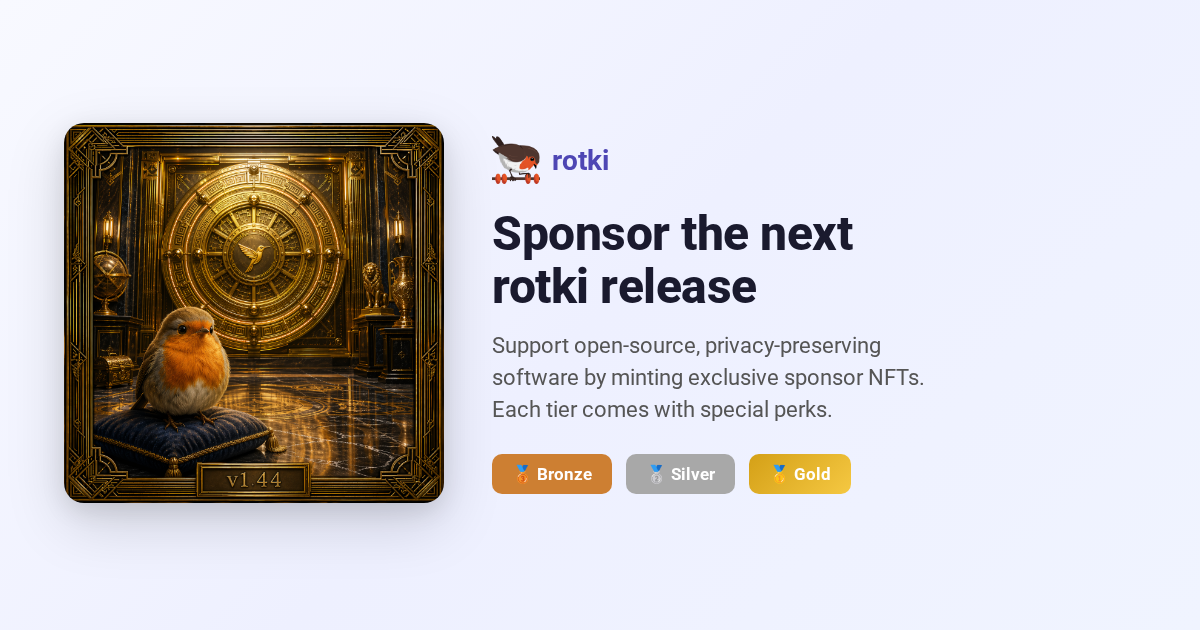
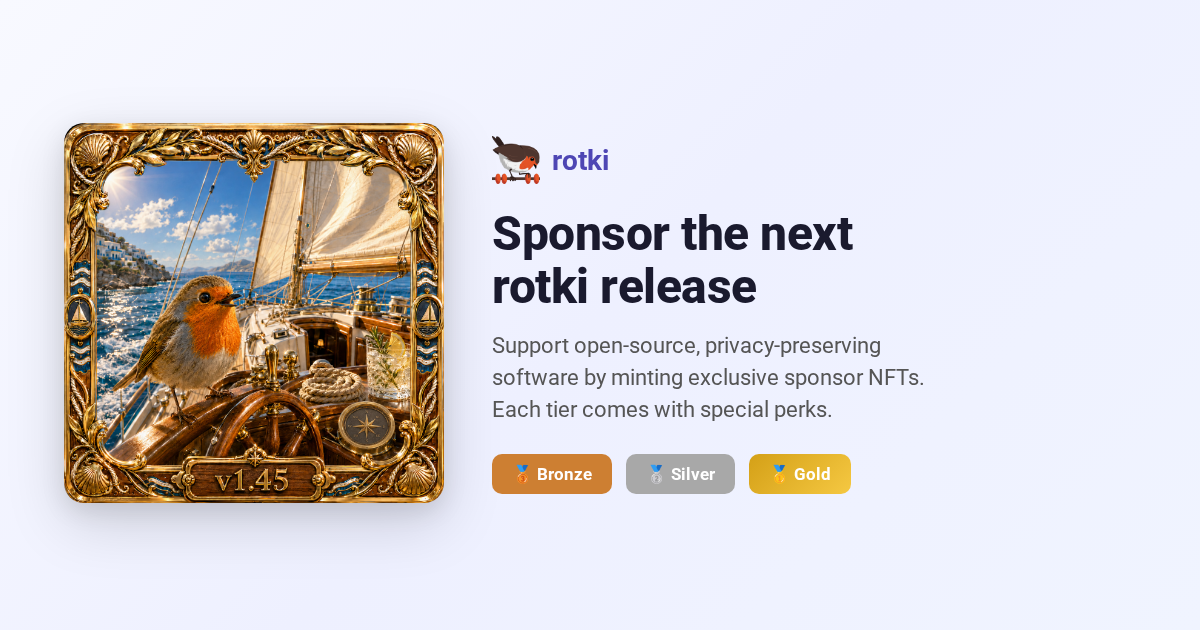
chore(sponsor): regenerate mint OG image for the v1.45 art
Also lets the generator use a system Chromium via --executable-path or
CHROMIUM_PATH, instead of requiring the Playwright download.

Changed region(s): [[0.0308, 0.181, 0.37, 0.8143]]

diff --git a/packages/website/scripts/generate-og-mint.ts b/packages/website/scripts/generate-og-mint.ts
@@ -4,24 +4,29 @@
  * Usage:
  *   pnpm og:mint                          # uses https://rotki.com
  *   pnpm og:mint -- --base-url http://localhost:3000
+ *   pnpm og:mint -- --executable-path /usr/bin/chromium
  *
  * Requirements:
- *   - Playwright browsers installed (`pnpm exec playwright install chromium`)
+ *   - A Chromium: either the Playwright one (`pnpm exec playwright install chromium`)
+ *     or a system install pointed at via --executable-path / CHROMIUM_PATH.
  */
 
 import { Buffer } from 'node:buffer';
 import path from 'node:path';
+import process from 'node:process';
 import { parseArgs } from 'node:util';
 import { chromium } from '@playwright/test';
 
 const { values } = parseArgs({
   options: {
     'base-url': { type: 'string', default: 'https://rotki.com' },
+    'executable-path': { type: 'string', default: process.env.CHROMIUM_PATH },
   },
   strict: false,
 });
 
 const baseUrl = values['base-url'];
+const executablePath = typeof values['executable-path'] === 'string' ? values['executable-path'] : undefined;
 const outputPath = path.resolve(import.meta.dirname, '../public/img/og/mint.png');
 
 async function fetchAsDataUri(url: string): Promise<string> {
@@ -93,7 +98,7 @@ function buildOgHtml(nftSrc: string, logoSrc: string): string {
 }
 
 async function generateOgMint(): Promise<void> {
-  const browser = await chromium.launch();
+  const browser = await chromium.launch({ executablePath });
   const page = await browser.newPage();
   await page.setViewportSize({ width: 1200, height: 630 });
 
